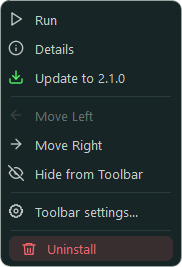
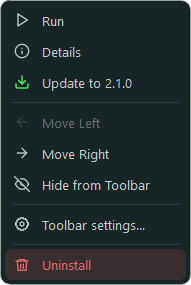
Align menu items and the red Uninstall row
Menu items get even paddings (icon 12 px inside the highlight, text 10 px
after it). The painted Uninstall row uses the same offsets, measured
against a normal item in 3ds Max 2022 and 2027.

diff --git a/python/maxpkg_runtime/ui/widgets.py b/python/maxpkg_runtime/ui/widgets.py
@@ -1011,9 +1011,16 @@ def themed_menu(parent):
 
 
 class _DangerRow(QtWidgets.QWidget):
-    """One red menu row (QSS styles every QMenu item alike, so a destructive item paints itself)."""
+    """One red menu row (QSS styles every QMenu item alike, so a destructive item paints itself).
+
+    ICON_X, TEXT_X and HEIGHT match the ::item / ::icon paddings in manager.qss, measured against a normal item in
+    3ds Max (same icon, same text): change them together.
+    """
 
     triggered = Signal()
+    ICON_X = 9
+    TEXT_X = 37
+    PADDING = 7  # ::item vertical padding
 
     def __init__(self, text, icon_name, themes, parent=None):
         QtWidgets.QWidget.__init__(self, parent)
@@ -1023,10 +1030,10 @@ class _DangerRow(QtWidgets.QWidget):
         self.setMouseTracking(True)
         self.setAttribute(Qt.WA_Hover)
         self.setMinimumWidth(150)
-        self.setFixedHeight(self.fontMetrics().height() + 14)
+        self.setFixedHeight(max(16, self.fontMetrics().height()) + 2 * self.PADDING + 1)
 
     def sizeHint(self):
-        return QtCore.QSize(16 + 16 + 10 + self.fontMetrics().horizontalAdvance(self.text) + 24, self.height())
+        return QtCore.QSize(self.TEXT_X + self.fontMetrics().horizontalAdvance(self.text) + 14, self.height())
 
     def event(self, event):
         if event.type() in (QtCore.QEvent.HoverEnter, QtCore.QEvent.HoverLeave):
@@ -1044,12 +1051,12 @@ class _DangerRow(QtWidgets.QWidget):
         if self.underMouse():
             painter.setPen(Qt.NoPen)
             painter.setBrush(theme.color("dangerSurface"))
-            painter.drawRoundedRect(QtCore.QRectF(self.rect()).adjusted(4, 1, -4, -1), 7, 7)
+            painter.drawRoundedRect(QtCore.QRectF(self.rect()), 7, 7)  # the same shape as ::item:selected
         glyph = icons.pixmap(self.icon_name, theme.color("iconDanger"), 16, self.devicePixelRatioF())
-        painter.drawPixmap(QtCore.QPointF(16, (self.height() - 16) / 2.0), glyph)
+        painter.drawPixmap(QtCore.QPointF(self.ICON_X, (self.height() - 16) / 2.0), glyph)
         painter.setPen(theme.color("dangerText"))
-        painter.drawText(QtCore.QRect(42, 0, self.width() - 42, self.height()), int(Qt.AlignLeft | Qt.AlignVCenter),
-                         self.text)
+        painter.drawText(QtCore.QRect(self.TEXT_X, 0, self.width() - self.TEXT_X, self.height()),
+                         int(Qt.AlignLeft | Qt.AlignVCenter), self.text)
         painter.end()
 
 
